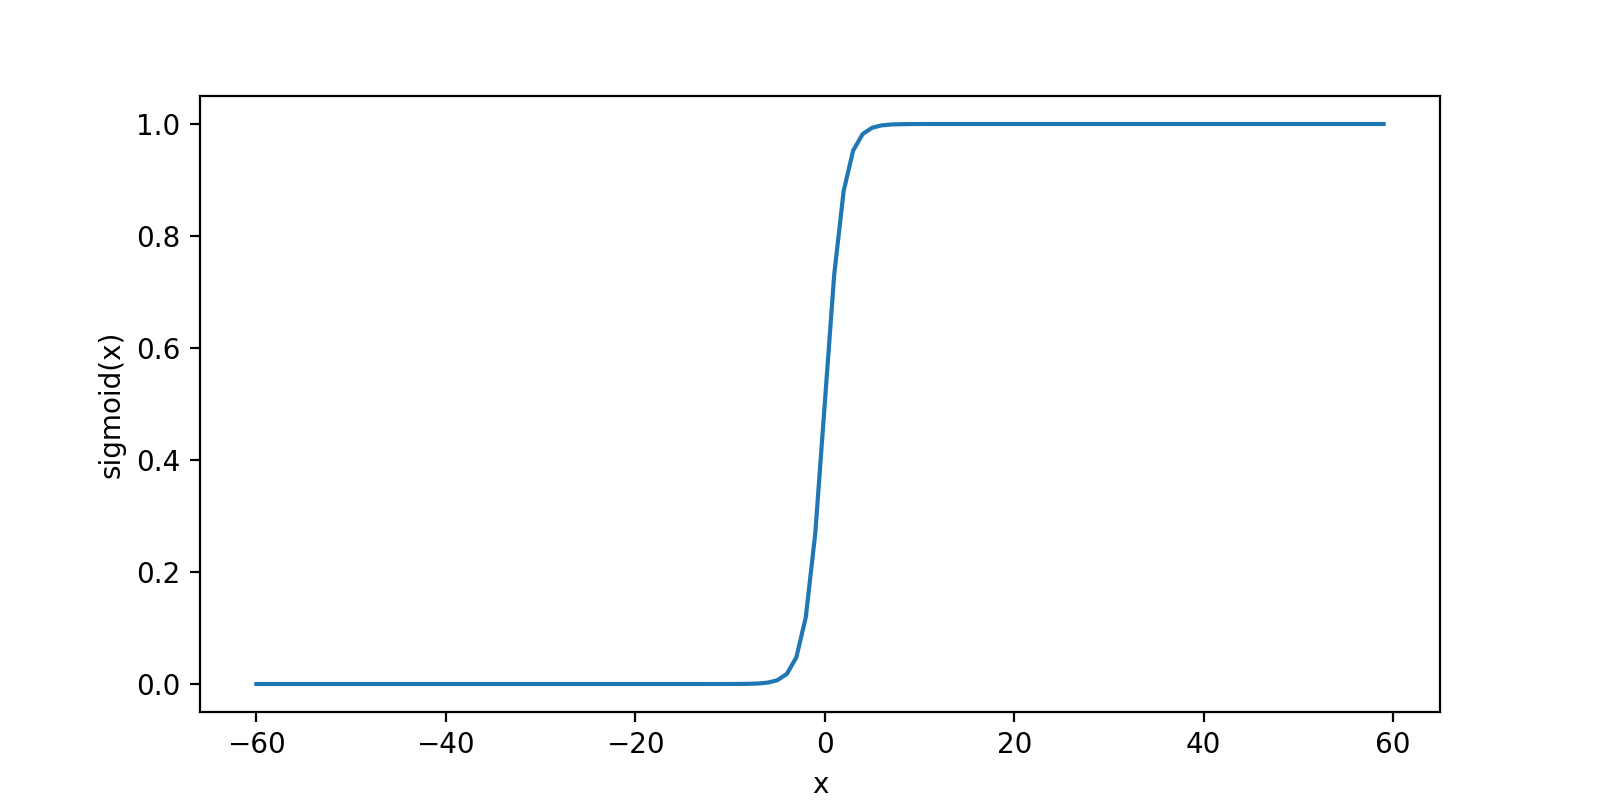
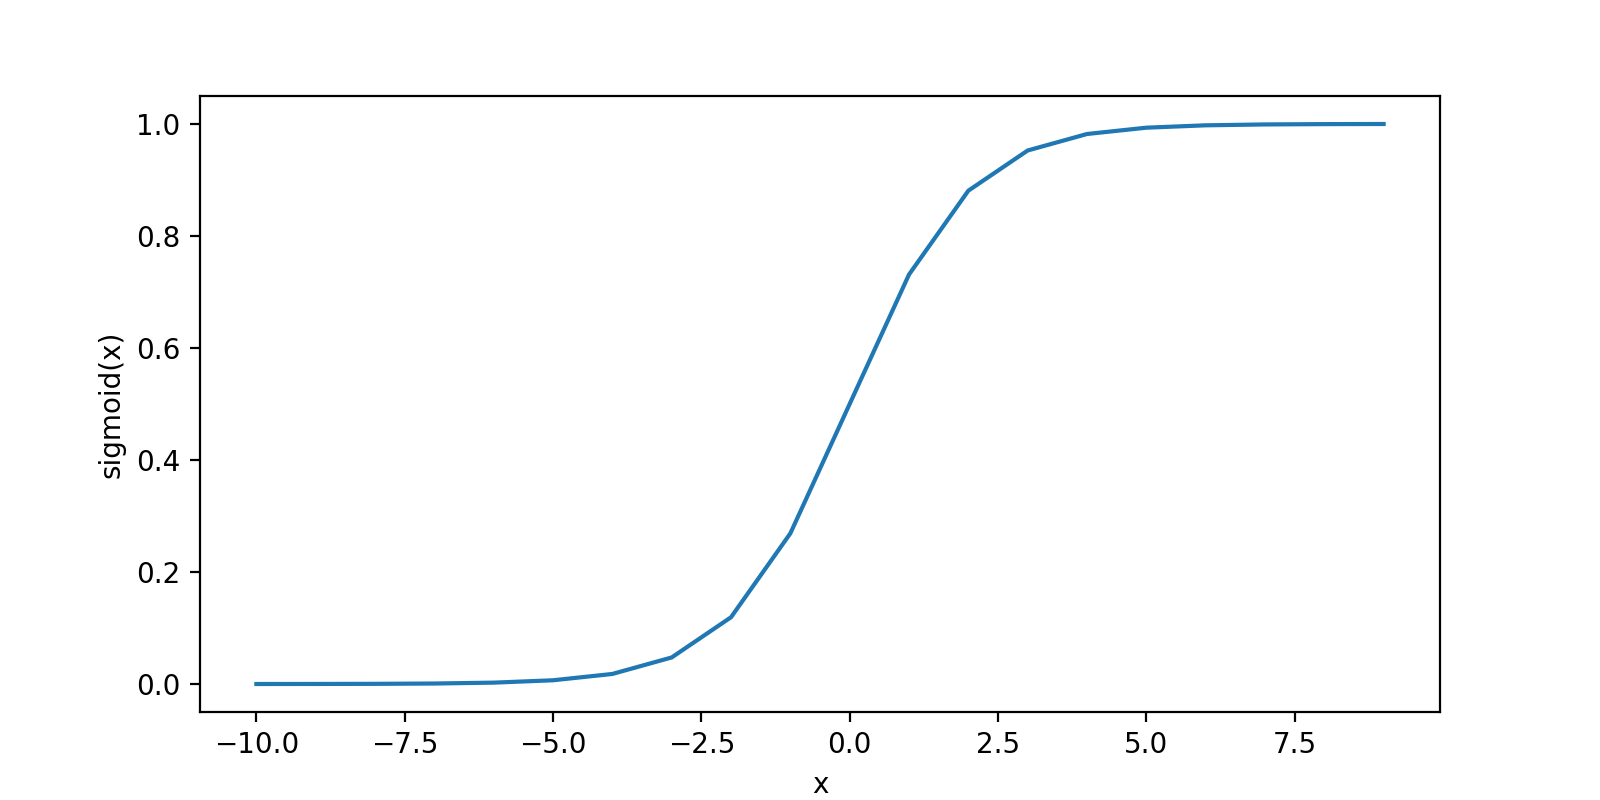
add fasttext

diff --git a/fasttext/demo_02.py b/fasttext/demo_02.py
@@ -1,0 +1,17 @@
+# -*- coding: utf-8 -*-
+'''
+@FilePath: /nlp-exercise/fasttext/demo_02.py
+@Author: huzhu
+@Date: 2020-04-19 16:32:22
+@Description: 文本分类模型
+'''
+import fasttext
+#help(fasttext.train_supervised)
+#model = fasttext.train_supervised(input="data/cooking.train", epoch=25)
+#model.save_model("model_cooking.bin")
+
+model= fasttext.load_model("model_cooking.bin")
+print(model.predict("Which baking dish is best to bake a banana bread ?"))
+print(model.predict("Why not put knives in the dishwasher?"))
+print(model.test("data/cooking.train"))
+print(model.test("data/cooking.valid"))

diff --git a/fasttext/demo_03.py b/fasttext/demo_03.py
@@ -1,0 +1,17 @@
+# -*- coding: utf-8 -*-
+'''
+@FilePath: /nlp-exercise/fasttext/demo_03.py
+@Author: huzhu
+@Date: 2020-04-23 22:01:50
+@Description: word 表示
+'''
+import fasttext
+#model = fasttext.train_unsupervised('data/fil9')
+#model.save_model("result/fil9.bin")
+model = fasttext.load_model("result/fil9.bin")
+print(len(model.words))
+print(model.get_word_vector("the"))
+print(model.get_nearest_neighbors('hello'))
+print(model.get_nearest_neighbors('enviroment'))
+print(model.get_analogies("berlin", "germany", "china"))
+print(model.get_nearest_neighbors('beijing'))

diff --git a/fasttext/demo_01.py b/fasttext/demo_01.py
@@ -1,0 +1,12 @@
+# -*- coding: utf-8 -*-
+'''
+@FilePath: /nlp-exercise/fasttext/demo_01.py
+@Author: huzhu
+@Date: 2019-11-17 18:23:43
+@Description: 
+'''
+from gensim.models import FastText
+sentences = [["你", "是", "谁"], ["我", "是", "中国人"]]
+
+model = FastText(sentences,  model = 'cbow', size=4, window=3, min_count=1, iter=10,min_n = 3 , max_n = 6,word_ngrams = 0)
+print(model['你'])  # 词向量获得的方式

diff --git a/machine_learning/logistic/logistic.py b/machine_learning/logistic/logistic.py
@@ -124,7 +124,7 @@ def plotBestFit(weights):
 
 
 def plot_sigmoid():
-    x = arange(-60.0, 60.0, 1)
+    x = arange(-10.0, 10.0, 1)
     y = sigmoid(x)
     fig = plt.figure(figsize=(8, 4))
     plt.xlabel('x')
@@ -141,4 +141,4 @@ if __name__ == "__main__":
     #logistic_lib(data_mat, label_mat)
     #plot_weights(weights_list)
     #plotBestFit(weights)
-    # plot_sigmoid()
+    plot_sigmoid()

diff --git a/机器学习笔记/机器学习-logistic回归原理与实现.md b/机器学习笔记/机器学习-logistic回归原理与实现.md
@@ -4,25 +4,37 @@
 
 # 一、什么是logistic回归？
 
-logistic回归又叫对数几率回归，适合数值型的二值型输出的拟合，它其实是一个分类模型，比如根据患者的医疗数据判断它是否能被治愈。
+logistic 回归又叫**对数几率回归**，适合数值型的二值型输出的拟合，它其实是一个分类模型，比如根据患者的医疗数据判断它是否能被治愈。
 
 # 二、logistic回归数学原理与算法实现
 
 我们考虑1个输入的$n$维数据$x=(x_1,x_2,\ldots,x_n)$，我们对输入数据进行线性加权得到
 $$
-g(x)=w_{0}+w_{1} x_{1}+\ldots+w_{n} x_{n}=w^{T}x
+g(x)=w_{0}+w_{1} x_{1}+\ldots+w_{n} x_{n}=w^{T}x \tag{1}
 $$
 前面说到，logistic回归用于而分类，假设得到的类别为0或者1，那么可以使用sigmoid函数处理输入，这个函数类似于阶跃函数但是又是连续型函数，看下这个函数长什么样
 
-![sigmoid](https://tva1.sinaimg.cn/large/006tNbRwly1g9i7umryu5j318g0m8mxs.jpg)
+![sigmoid](https://tva1.sinaimg.cn/large/00831rSTly1gd8wzlk8aej318g0m8t9k.jpg)
 
-将其作为sigmoid函数的输入，得到
+$ \text{sigmod}(x)$ 其实衡量的是输入数据 $x$ 归属于类别 1 的概率，当 $x <0$ 的时候，$\text{sigmod}(x) < 0.5$ ，可以认为 $x$ 归属于类别 0 的概率较大，当  $x >0$ 的时候，$\text{sigmod}(x) > 0.5$，可以认为 $x$ 归属于类别 1 的概率较大。如果我们将线性加权得到的 $g(x)$ 作为 sigmoid 函数的输入，得到
 $$
-f(x)=\frac{1}{1+e^{-g(x)}}
+f(x)=\frac{1}{1+e^{-g(x)}}=\sigma(g(x))=\sigma(w^Tx)\tag{2}
 $$
-我们将$g(x)$作为输入数据$x$的输出，最上式做个简单的变换
+这样就得到了输入数据 $x$ 最终属于类别 1 的概率。
+
+我们先考虑使用常规的均方差作为损失函数，这时候的损失函数为
 $$
-\ln\frac{f(x)}{1-f(x)}=w^Tx
+L(x)=\frac{1}{2}(y-f(x))^2=\frac{1}{2}\left(y-\sigma(w^Tx)\right)^2\tag{3}
+$$
+采用梯度下降的方法对 $w$ 进行更新，那么需要将损失函数对 $w$ 求导得到
+$$
+\frac{\partial L}{\partial w}=\left(y-\sigma(w^Tx)\right)\sigma'(w^Tx)x\tag{4}
+$$
+看到了吗？这里的梯度更新中包含了 $\sigma'(w^Tx)$ ，而通过 sigmod 函数可以发现，当 $\sigma(w^Tx)$ 位于 0 或者 1附近的时候，导数值基本趋近于 0，梯度收敛速度极慢。
+
+所以在这种情况下我们可以考虑使用**交叉熵**作为损失函数。将$g(x)$作为输入数据$x$的输出，最上式做个简单的变换
+$$
+\ln\frac{f(x)}{1-f(x)}=w^Tx\tag{5}
 $$
 将$f(x)$视为类后验概率估计$P(y=1|x)$，则上式可以重写为
 $$
@@ -31,20 +43,22 @@ $$
 那么从而可以得到
 $$
 P(y=1 | x)=f(x)\\
-P(y=0 | x)=1-f(x)
+P(y=0 | x)=1-f(x) \tag{6}
 $$
-所以得到一个观测值的概率为
+上式可以合并为
 $$
-P(y | x,w)=[f(x)]^y \cdot [1-f(x)]^{1-y}
+P(y | x,w)=[f(x)]^y \cdot [1-f(x)]^{1-y}\tag{7}
 $$
 设输入数据为$X=\left[\begin{array}& {x_{11}} & {x_{12}} & {\dots} & {x_{1 n}} \\ {x_{21}} & {x_{22}} & {\dots} & {x_{2 n}} \\ {\vdots} & {\vdots} & {\vdots} & {\dots} & {\vdots} \\  {x_{m 1}} & {x_{m 2}} & {\dots} & {x_{m n}}\end{array}\right]=\{x_1,x_2,\ldots,x_m\}$，$y=\left[\begin{array}{c}{y_{1}} \\ {y_{2}} \\ {\vdots} \\ {y_{m}}\end{array}\right]$，$x_i$表示第$i$个输入数据，上式的似然函数为
 $$
-L(w)=\prod_{i=1}^{m}\left[f\left(x_{i}\right)\right]^{y_{i}}\left[1-f\left(x_{i}\right)\right]^{1-y_{i}}
+L(w)=\prod_{i=1}^{m}\left[f\left(x_{i}\right)\right]^{y_{i}}\left[1-f\left(x_{i}\right)\right]^{1-y_{i}}\tag{8}
 $$
 然后我们的目标是求出使这一似然函数的值最大的参数估计，最大似然估计就是求出参数$w_0,w_1,\ldots,w_n$，使得上式取得最大值，对上式求导得到
 $$
-\ln L(w)=\sum_{i=1}^{m}\left(y_{i} \ln \left[f\left(x_{i}\right)\right]+\left(1-y_{i}\right) \ln \left[1-f\left(x_{i}\right)\right]\right)
+\ln L(w)=\sum_{i=1}^{m}\left(y_{i} \ln \left[f\left(x_{i}\right)\right]+\left(1-y_{i}\right) \ln \left[1-f\left(x_{i}\right)\right]\right)\tag{9}
 $$
+
+> 这里补充说明一下均方差和交叉熵损失的区别：均方差注重每个分类的结果，而交叉熵只注重分类正确的结果，所以交叉熵适合于分类问题，而不适合于回归问题，但是 logistic回归其实本质是 0-1 分类问题，所以这里依然适合作为 logistic 回归的损失函数。
 
 ## 2.1 梯度上升法估计参数
 
@@ -58,27 +72,27 @@ $$
 & {=\left(f\left(x_{i}\right)-y_{i}\right) g^{\prime}(x)} \\ 
 & {=x_{i k}\left[f\left(x_{i}\right)-y_{i}\right]}
 \end{split}
-\end{equation}
+\end{equation}\tag{10}
 $$
 那么
 $$
-\frac{\partial \ln L\left(w_{k}\right)}{\partial w_{k}}=\sum_{i=1}^{m} x_{ik}\left[f\left(x_{i}\right)-y_{i}\right]=0
+\frac{\partial \ln L\left(w_{k}\right)}{\partial w_{k}}=\sum_{i=1}^{m} x_{ik}\left[f\left(x_{i}\right)-y_{i}\right]=0\tag{11}
 $$
 我们使用**梯度上升法(Gradient ascent method)**求解参数$w$，其迭代公式为
 $$
-w=w+\alpha \nabla\ln L(w)
+w=w+\alpha \nabla\ln L(w)\tag{11}
 $$
 梯度已经在上面计算过了，即
 $$
-\nabla\ln L(w)=\frac{\partial \ln L\left(w\right)}{\partial w}
+\nabla\ln L(w)=\frac{\partial \ln L\left(w\right)}{\partial w}\tag{12}
 $$
-定义损失误差为
+定义
 $$
-E=f(x)-y
+E=f(x)-y\tag{13}
 $$
 所以我们现在可以得到
 $$
-w=w+\alpha \sum_{i=1}^{m} x_{ik}\left[f\left(x_{i}\right)-y_{i}\right]=w+ \alpha X^TE
+w=w+\alpha \sum_{i=1}^{m} x_{ik}\left[f\left(x_{i}\right)-y_{i}\right]=w+ \alpha X^TE\tag{14}
 $$
 
 代码实现
@@ -262,3 +276,5 @@ def logistic_lib(dataMatrix, classLabels):
 [1] [CSDN博客-logistic回归原理解析--一步步理解](https://blog.csdn.net/lgb_love/article/details/80592147)
 [2] [CSDN博客-logistic回归原理及公式推导](https://blog.csdn.net/AriesSurfer/article/details/41310525)
 [3] 李航. 统计学习方法, 清华大学出版社
+
+[4] [CSDN博客-logistic回归损失函数](https://blog.csdn.net/m0_37864814/article/details/94625639)
